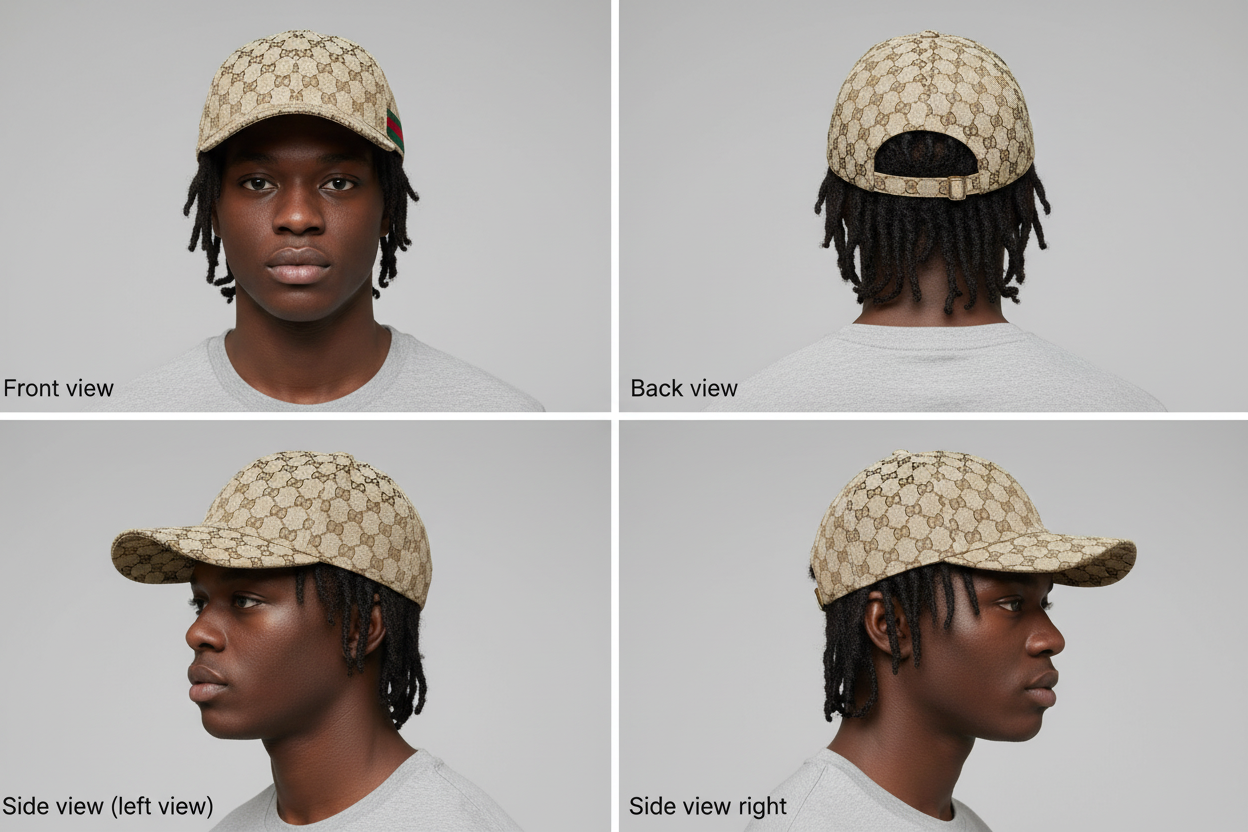
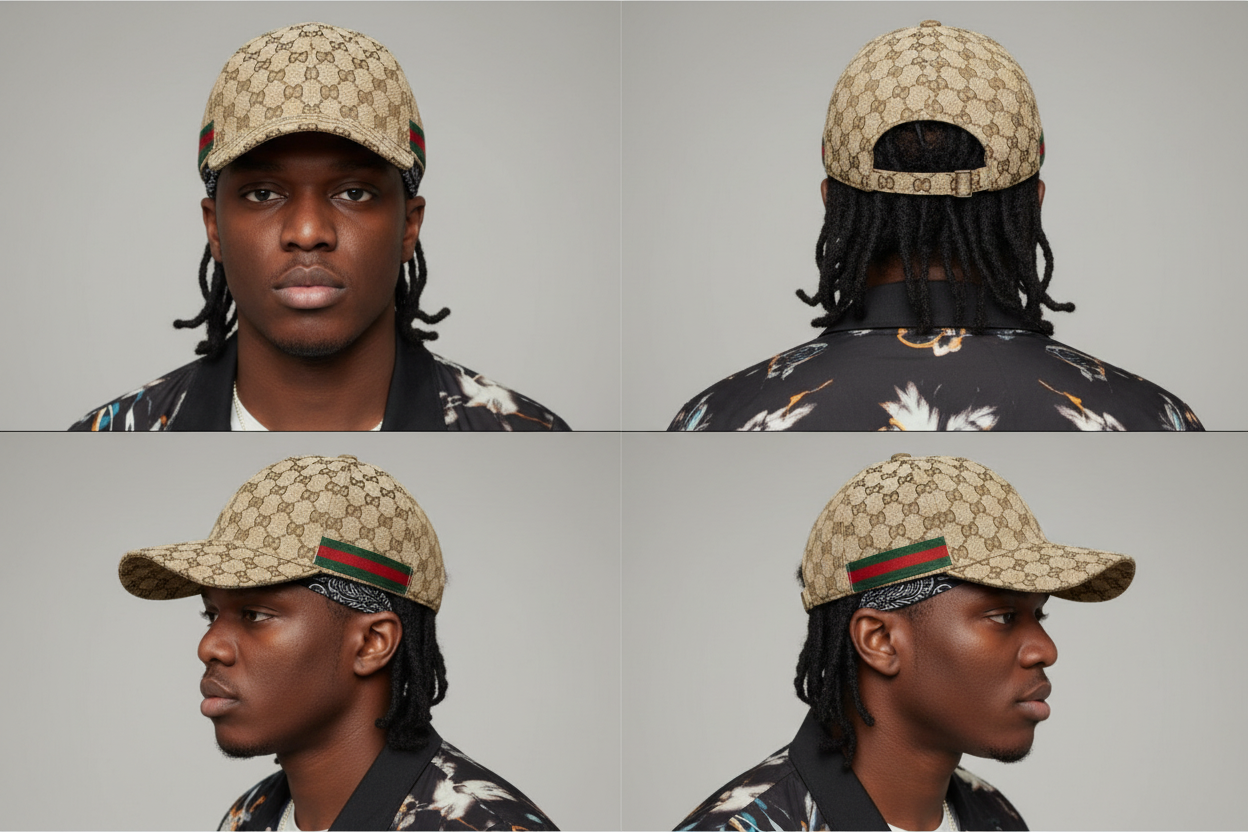
chore: modified prompt to more detailed

Changed region(s): [[0.0, 0.0, 1.0, 1.0]]

diff --git a/backend/banana.py b/backend/banana.py
@@ -127,7 +127,9 @@ def generate_fashion_product_images(clothing_image_path, model_image_path, outpu
 
     model = "gemini-2.5-flash-image-preview"
 
-    prompt = """Create a professional fashion product listing image showing the model wearing the provided clothing item.
+    prompt = """Using the provided images, place [clothing item from the clothing image] onto [model from the model image].
+    Ensure that the features of [model from the model image] remain completely unchanged. The added [clothing item] should integrate naturally and realistically.
+
     Generate a single composite image that shows the model wearing the clothing from 4 different angles:
     1. Front view - model facing forward
     2. Back view - model facing away
@@ -137,7 +139,9 @@ def generate_fashion_product_images(clothing_image_path, model_image_path, outpu
     Arrange these 4 views in a clean, professional grid layout suitable for an e-commerce product listing.
     The background should be clean and neutral (white or light gray).
     Ensure the clothing fits naturally on the model and maintain consistent lighting across all angles.
-    The style should be professional fashion photography suitable for online retail."""
+    The style should be professional fashion photography suitable for online retail.
+
+    Important: Only follow the exact appearance and characteristics shown in the provided images - do not add any additional features or modifications."""
 
     contents = [
         prompt,
